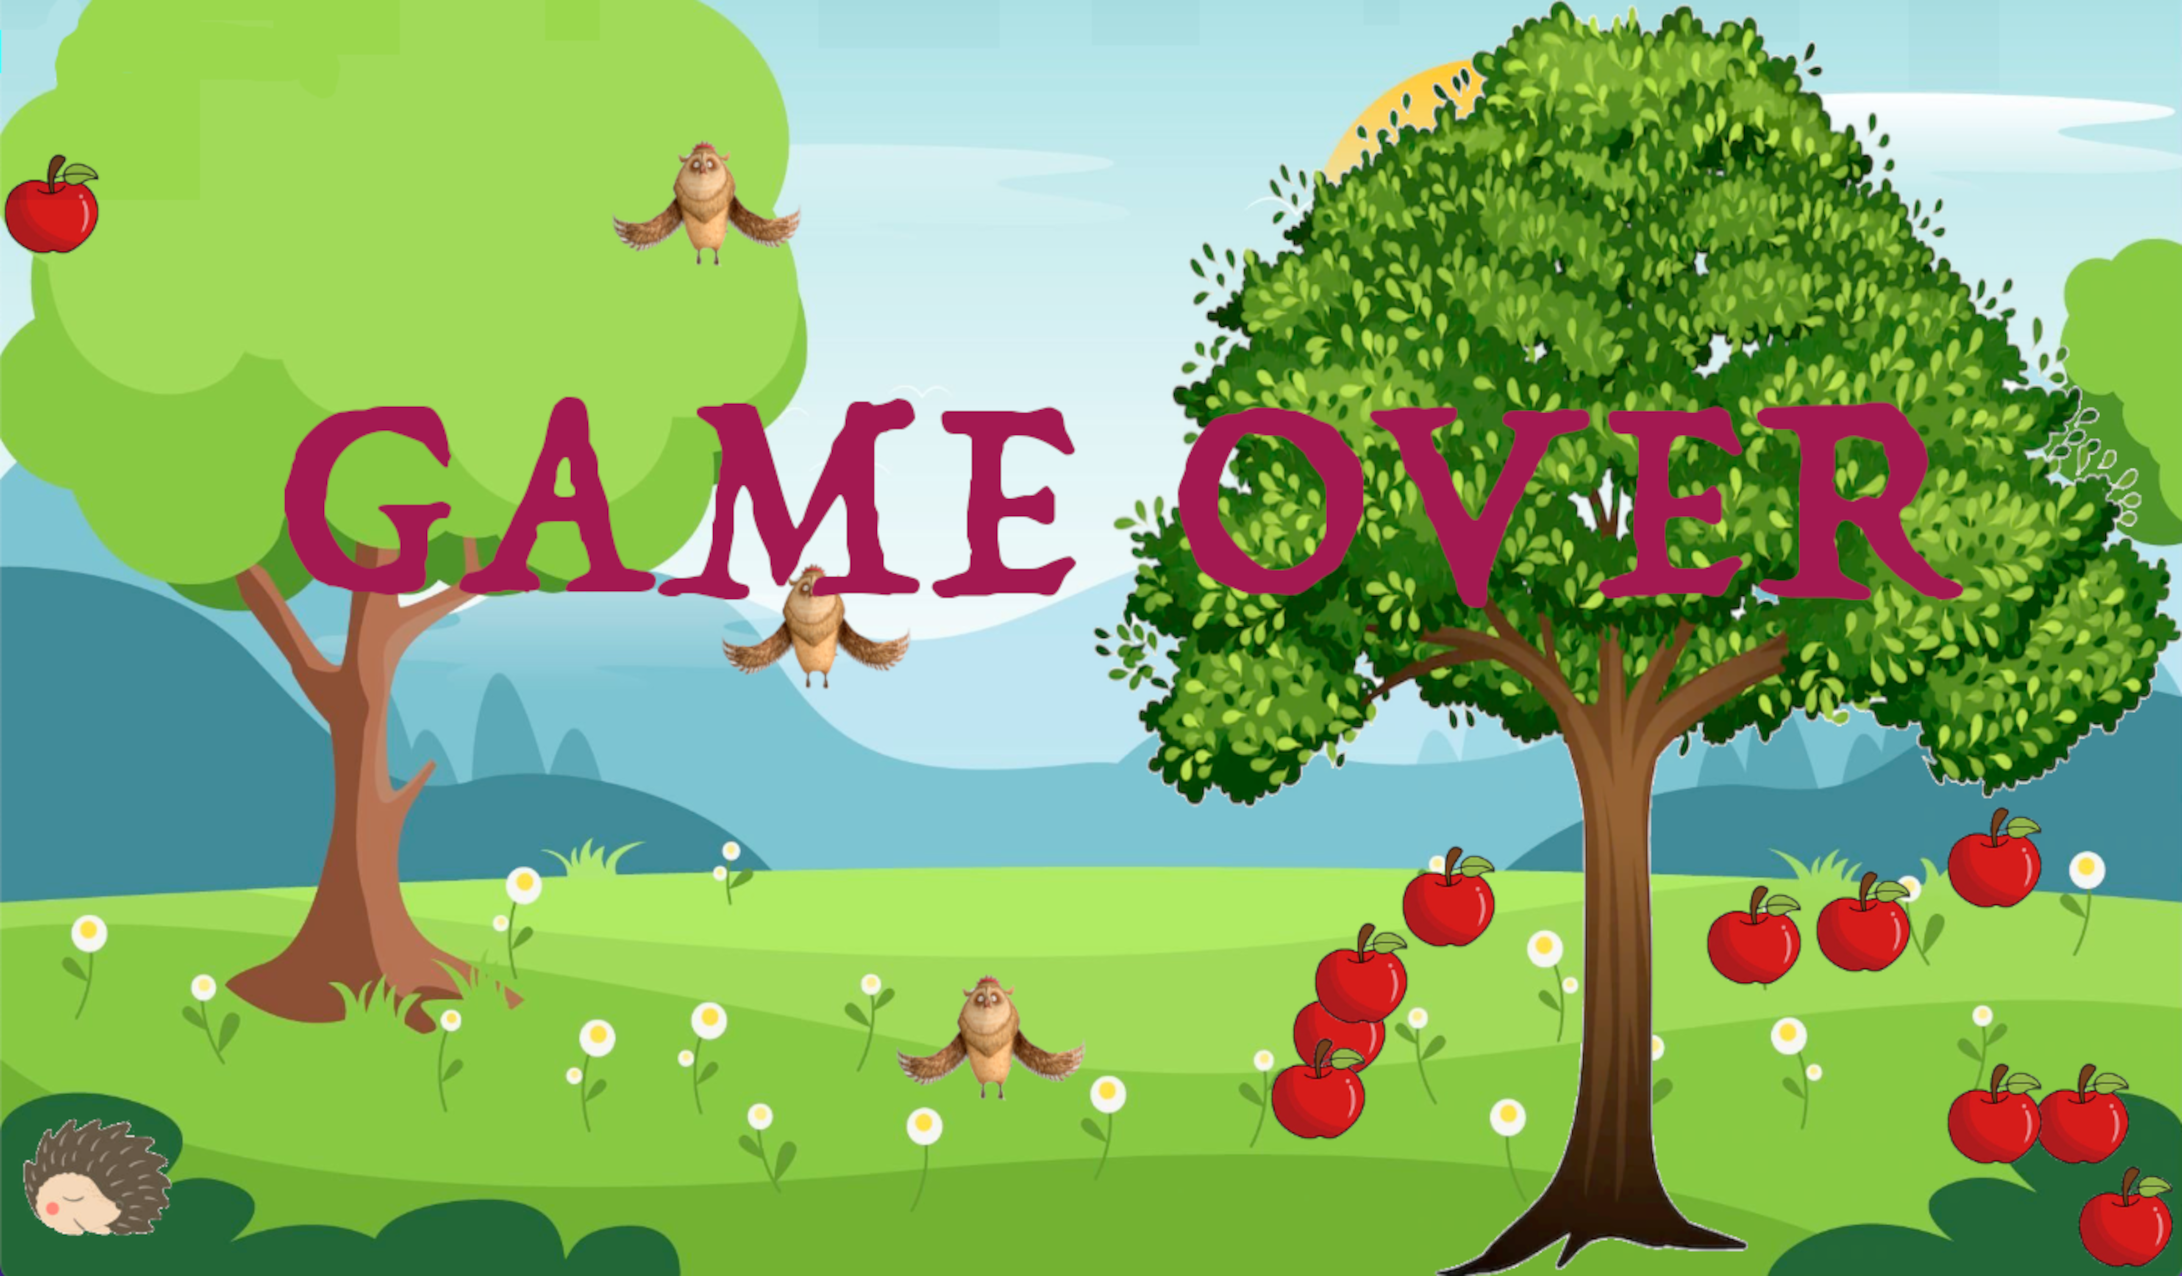
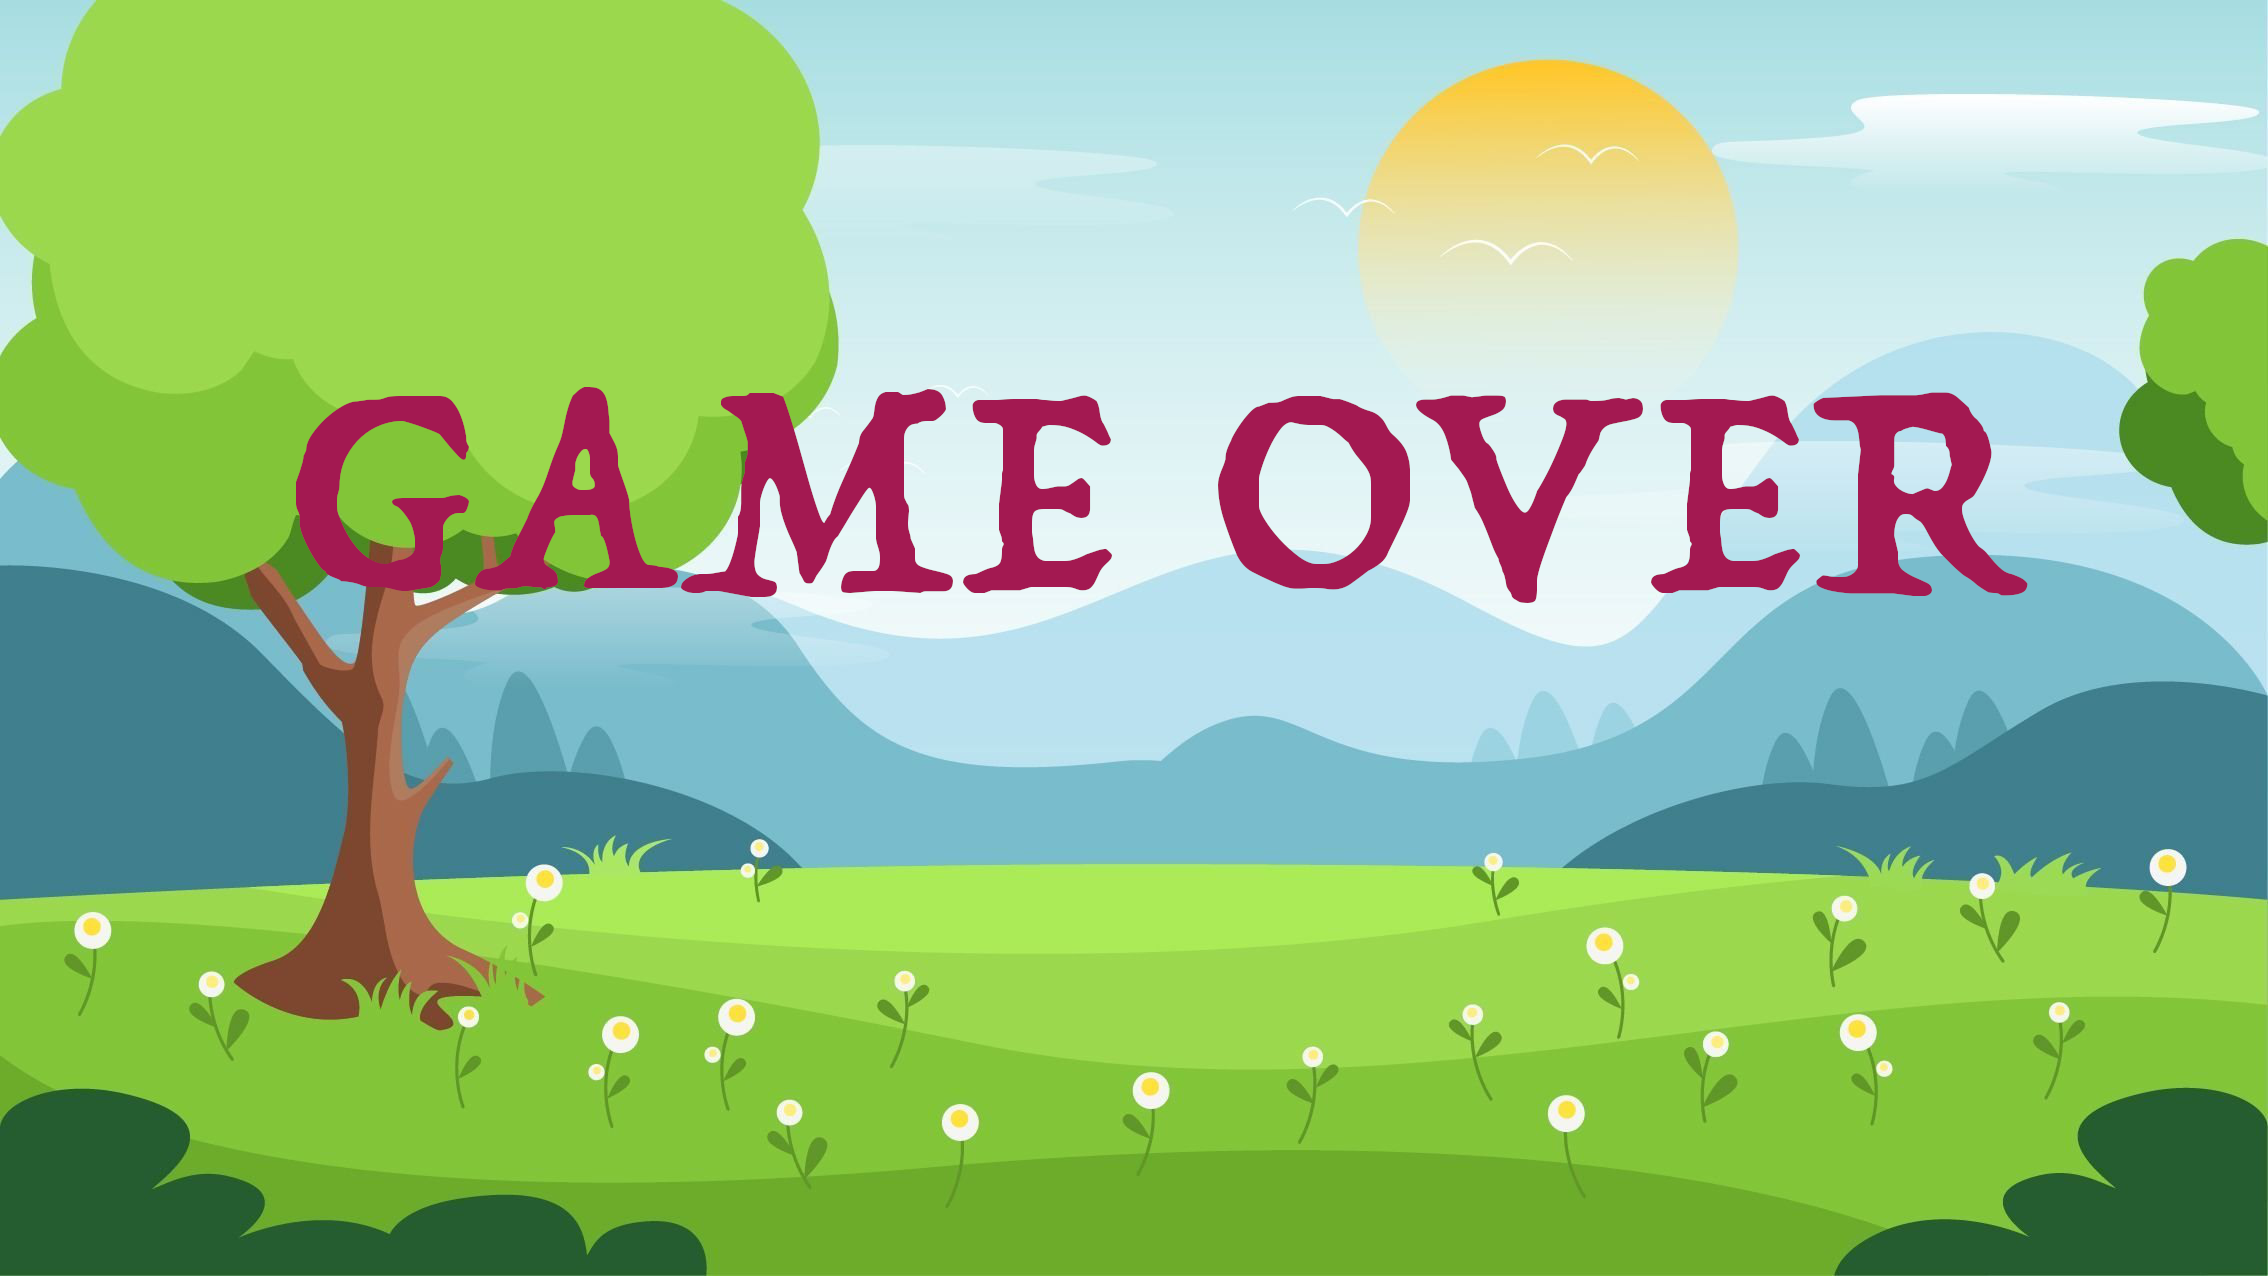
improved game over

diff --git a/js/main.js b/js/main.js
@@ -94,6 +94,11 @@ class Game {
                     const gameoverpicture = document.getElementById("gameoverpicture");
                     const play = document.getElementById("play");
                     const redapple = document.getElementById("redapple");
+                    const applesToHide = document.querySelectorAll(".apple");
+                    //console.log(applesToHide);
+                    applesToHide.forEach((appleToHide) => {
+                        appleToHide.style.visibility = 'hidden';
+                    });
                     gamepicture.style.visibility = 'hidden';
                     gameoverpicture.style.visibility = 'visible';
                     play.style.visibility = 'visible';
